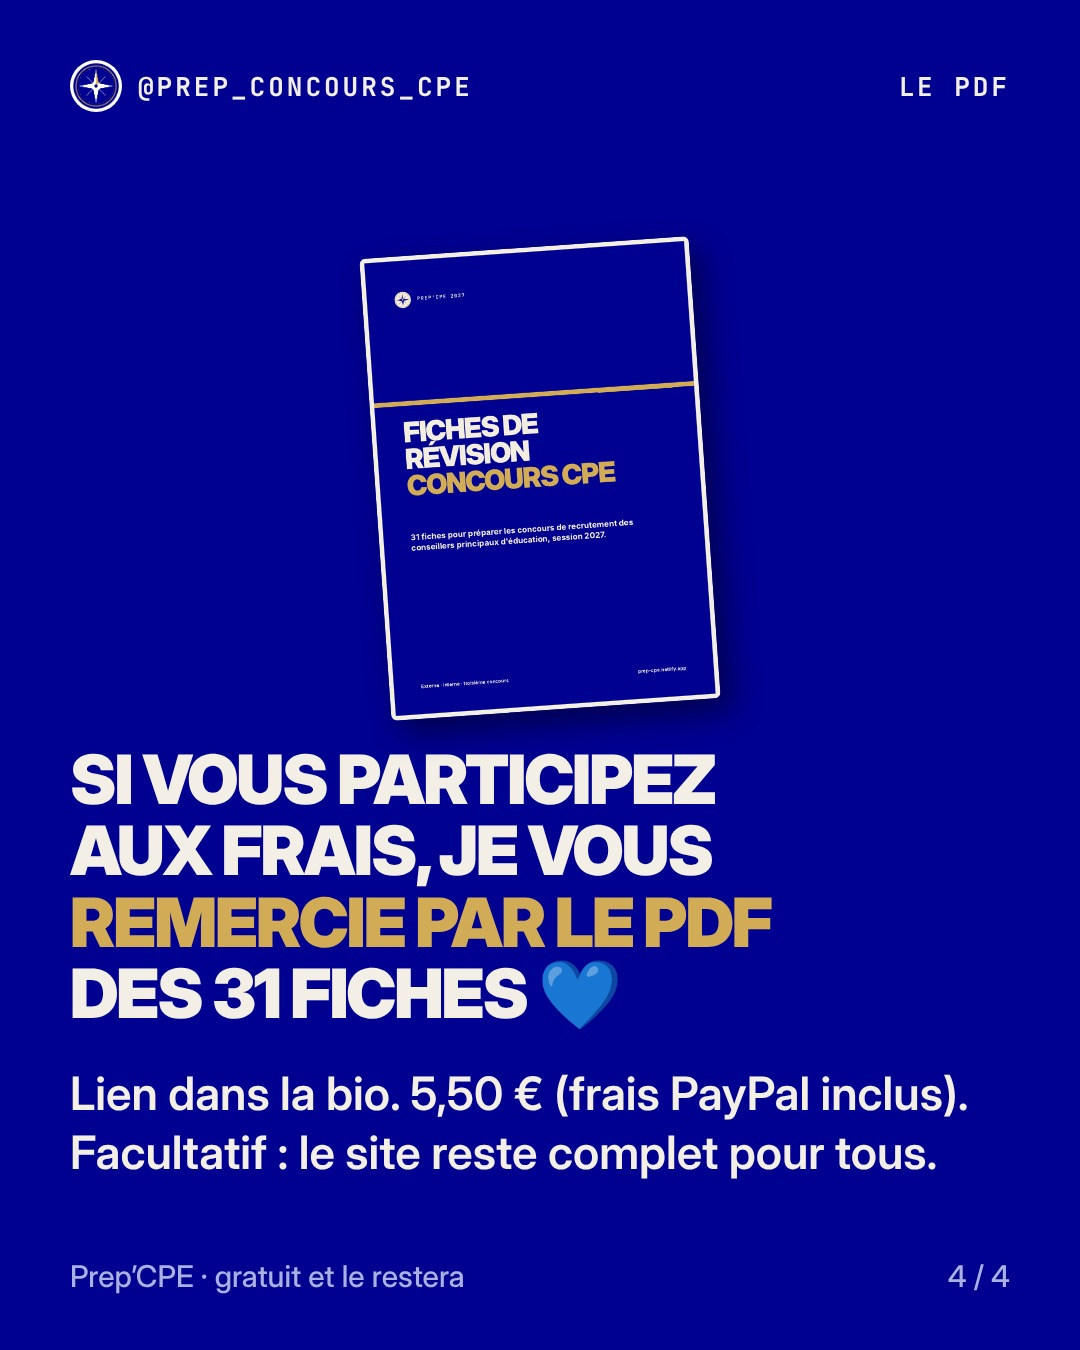
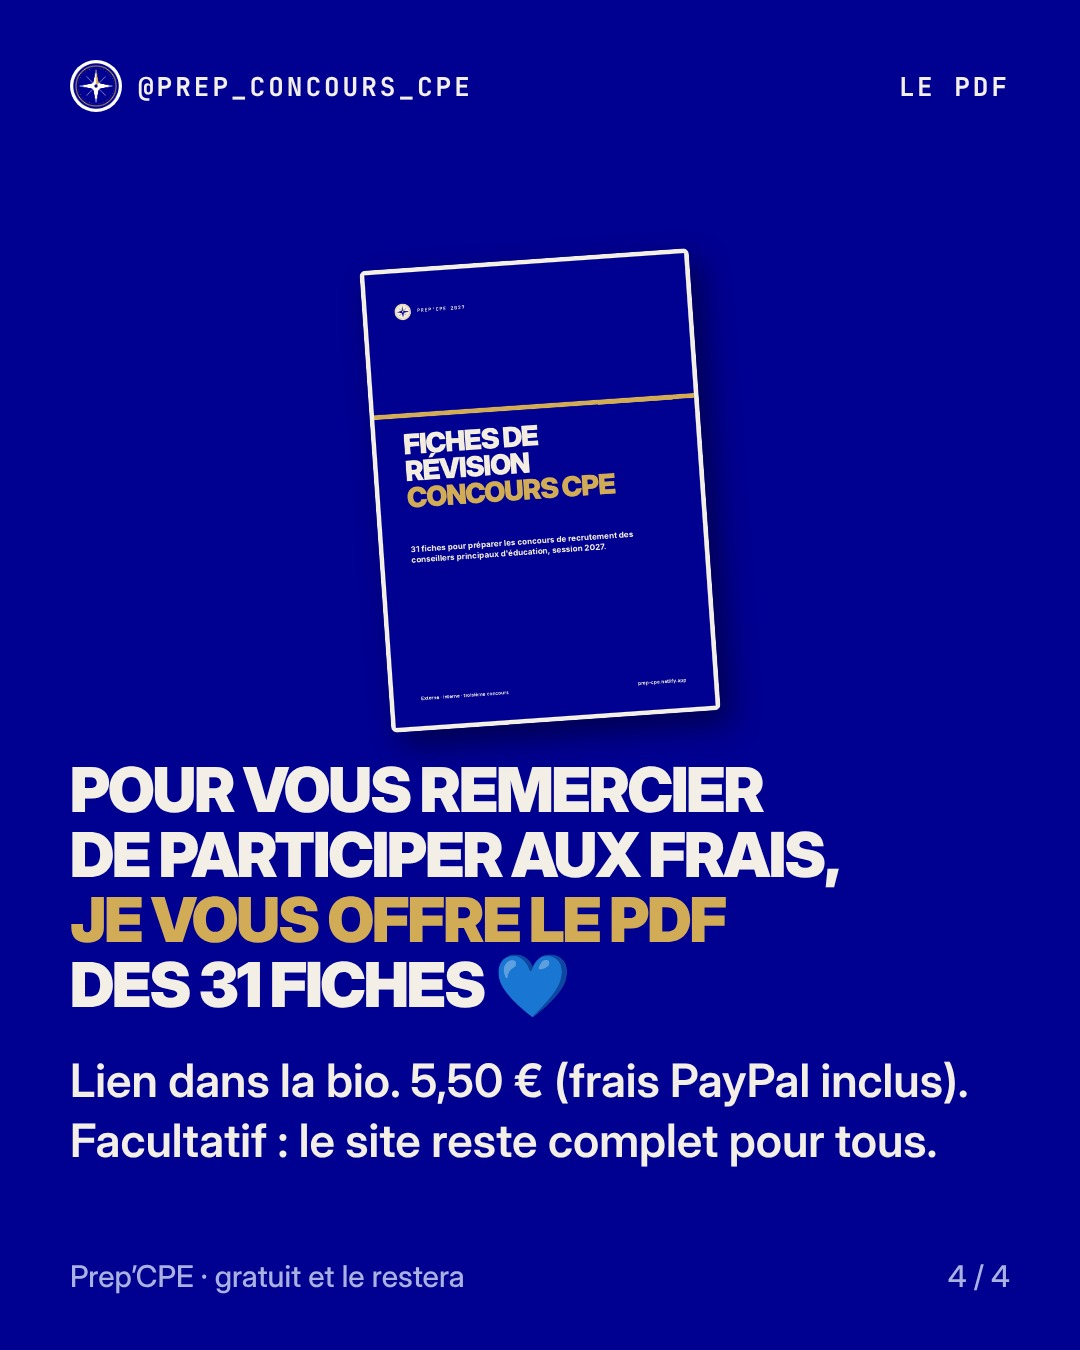
Carrousel démarche PDF : formulation sans condition
Claude-Session: https://claude.ai/code/session_01FvtqKUu1KCiFop3bVxFZWW

Changed region(s): [[0.0611, 0.1556, 0.8861, 0.8711]]

diff --git a/posts/demarche-pdf/LEGENDE.md b/posts/demarche-pdf/LEGENDE.md
@@ -8,7 +8,7 @@ Prep'CPE reste gratuit, et le restera 💙
 
 Tout le site est gratuit : les 31 fiches, les 468 questions de quiz, les audios, l'oral chronométré et le jeu. Sans inscription, sans condition.
 
-Je passe énormément de temps à faire vivre ce site, mais je ne peux pas, en plus, supporter seul le coût des outils et de l'hébergement. Si vous participez aux frais (5,50 €, frais PayPal inclus), je vous remercie par le PDF des 31 fiches, pratique pour réviser hors ligne ou imprimer.
+Je passe énormément de temps à faire vivre ce site, mais je ne peux pas, en plus, supporter seul le coût des outils et de l'hébergement. Pour vous remercier de participer aux frais (5,50 €, frais PayPal inclus), je vous offre le PDF des 31 fiches, pratique pour réviser hors ligne ou imprimer.
 
 C'est facultatif : le contenu en ligne reste complet pour tout le monde, et un partage autour de vous m'aide tout autant.
 
